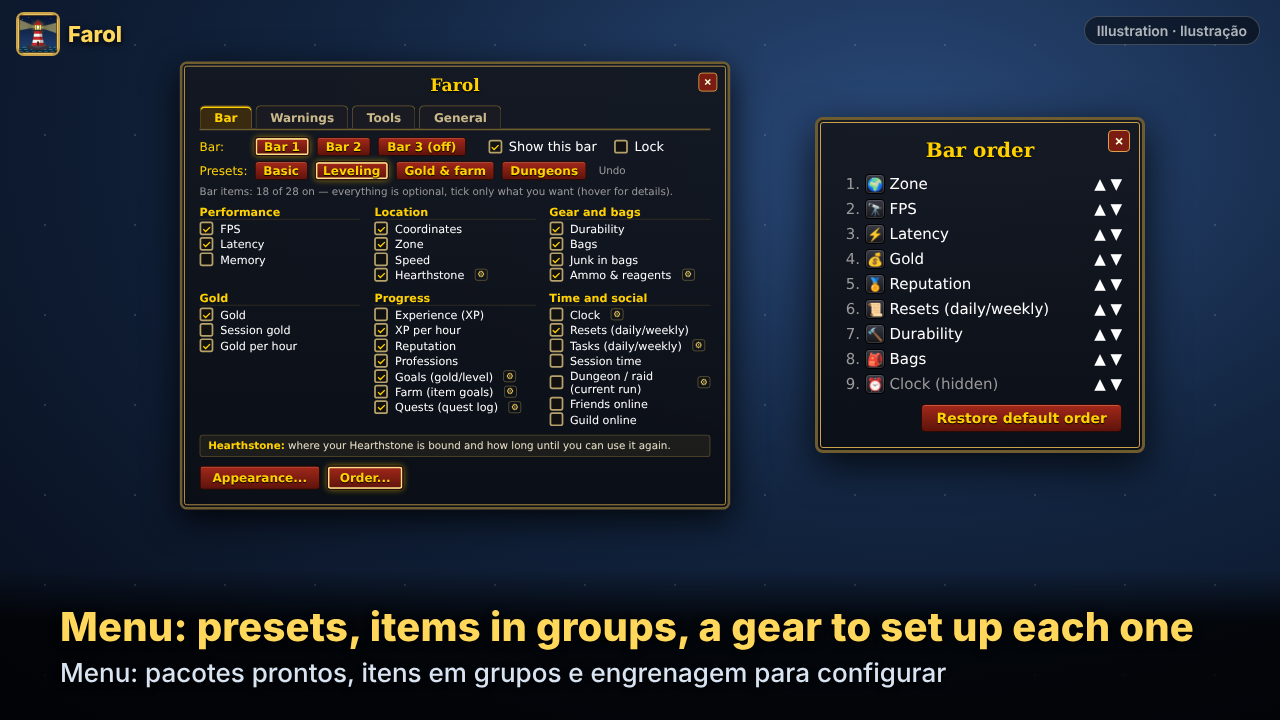
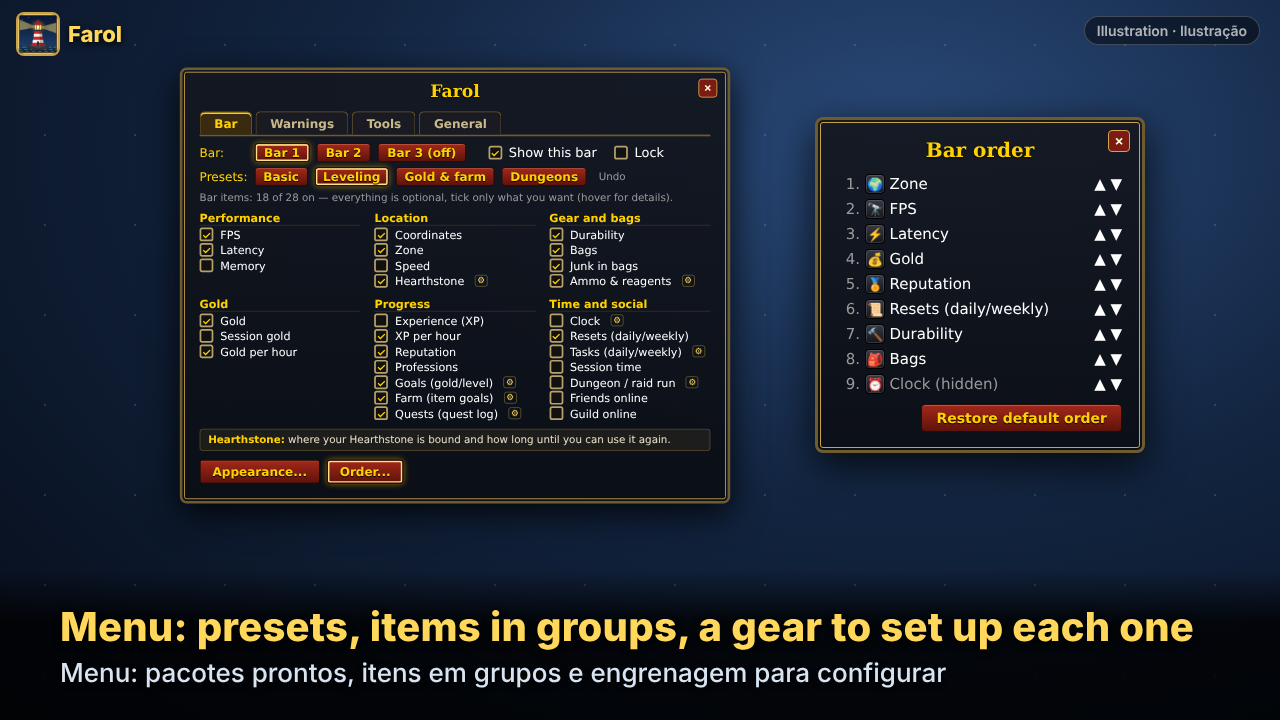
3.11.1: menu fixes
- Bar tab: "Lock position" is anchored right after the "Show this bar" label
  (it overlapped in the game, whose font is wider than estimated); "Show" moved
  closer to the bar buttons so the row stays inside the window.
- Dungeon item renamed "Dungeon / raid run" ("Masmorra / raide atual") so its
  gear fits inside the window. Test for the anchor; image 03 regenerated.

Claude-Session: https://claude.ai/code/session_01BGNd8jLBZJw5iNs8DwdX47

Changed region(s): [[0.125, 0.0611, 0.5625, 0.7333]]

diff --git a/assets/curseforge/make_pages.py b/assets/curseforge/make_pages.py
@@ -104,7 +104,7 @@ page("farol-02-bar-items-layout-tooltip", f"""
      "28 items, each with its own short tooltip (Shift: all)", "28 informações, cada uma com o seu tooltip curto (Shift: tudo)")
 
 # 3. Options menu + order
-names = ["FPS","Latency","Memory","Coordinates","Zone","Speed","Hearthstone","Durability","Bags","Junk in bags","Ammo & reagents","Gold","Session gold","Gold per hour","Experience (XP)","XP per hour","Reputation","Professions","Goals (gold/level)","Farm (item goals)","Quests (quest log)","Clock","Resets (daily/weekly)","Tasks (daily/weekly)","Session time","Dungeon / raid (current run)","Friends online","Guild online"]
+names = ["FPS","Latency","Memory","Coordinates","Zone","Speed","Hearthstone","Durability","Bags","Junk in bags","Ammo & reagents","Gold","Session gold","Gold per hour","Experience (XP)","XP per hour","Reputation","Professions","Goals (gold/level)","Farm (item goals)","Quests (quest log)","Clock","Resets (daily/weekly)","Tasks (daily/weekly)","Session time","Dungeon / raid run","Friends online","Guild online"]
 on = {0,1,3,4,6,7,8,9,10,11,13,15,16,17,18,19,20,22}
 half = 12
 col = lambda rng: "".join(f'<div class="ck"><span class="box">{"✓" if i in on else ""}</span>{names[i]}</div>' for i in rng)

diff --git a/CHANGELOG.md b/CHANGELOG.md
@@ -2,6 +2,10 @@
 
 All notable changes to Farol. Versions follow the `## Version:` line of the `.toc` files.
 
+## 3.11.1 — Menu fixes
+- Bar tab: "Lock position" no longer overlaps "Show this bar" (it now sits right after the label, whatever the font).
+- The dungeon item is now called "Dungeon / raid run" so its gear fits inside the window.
+
 ## 3.11.0 — Simpler menu
 - Bar tab: **presets** (Basic, Leveling, Gold & farm, Dungeons) set up the bar in one click, with **Undo**
   (`/farol preset leveling`, `/farol preset undo`); presets only change what you click (nothing turns on by itself).
